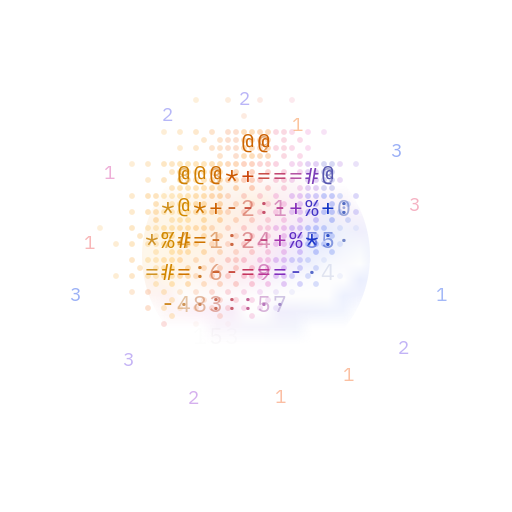
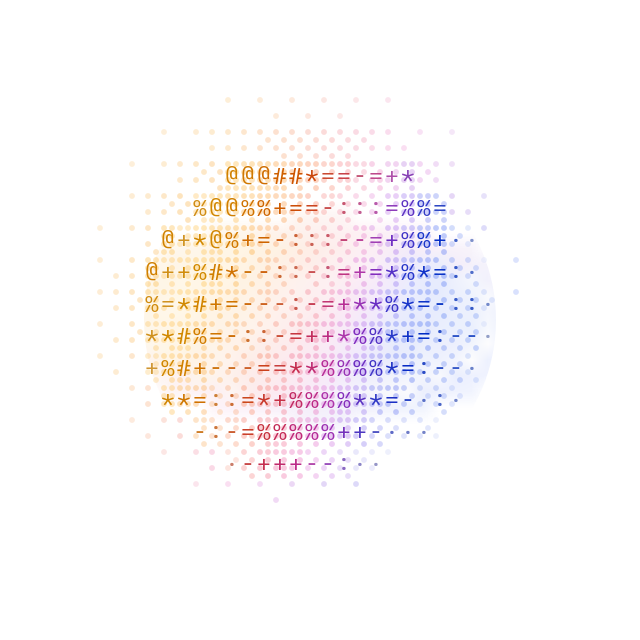
fix(ui): draw the Loading planet whole, breathing, with digits gathering
The launch poster and every loading frame showed a 14 x 7-cell crescent with
body digits and a frozen ring of loose 1/2/3 digits, so the pre-JS shell,
the boot and Account-restore Still frames, reduced motion and no-GPU all sat
on what read as a half-decoded planet.

The Loading scene now draws one whole planet (R 88 in a 320 box, lit from
the front so the full disc reads) that breathes on the brand's 9.6 s cycle
while digits drift in and fade into its limb on staggered cycles. Its first
frame is the Still frame: the regenerated posters, reduced motion and the
Still fallback show the whole planet with no loose digits. Home's cold-start
moment decodes the planet in from the grace through the shared front
(circle front, radial assembly), keeps its clock running while Home loads,
lifts the cover at readiness and travels only once the decode is complete,
turning light, glow and breath into Home's planet without a jump.

diff --git a/apps/ui/sources/components/atmosphere/moments/planetMomentTimeline.test.ts b/apps/ui/sources/components/atmosphere/moments/planetMomentTimeline.test.ts
@@ -1,8 +1,9 @@
 import { describe, expect, it } from 'vitest';
 import {
+  PLANET_BREATH_SECONDS,
   PLANET_MOMENT_TIMINGS,
 } from '@happier-dev/brand/planet';
-import { createLoadingPlanetScene, planetGlyphLayer } from '@happier-dev/brand/glyph-scene';
+import { createLoadingPlanetScene, glyphFrame, loadingPlanetDecodeS, planetGlyphLayer } from '@happier-dev/brand/glyph-scene';
 import { horizonPlanetGeometry } from '@happier-dev/brand/planet-placement';
 import {
   loadingPlanetLayers,
@@ -47,7 +48,7 @@ describe('Loading planet timeline', () => {
     ).toBe(false);
   });
 
-  it('keeps the loading planet Full and breathing for as long as loading is real', () => {
+  it('decodes the planet in, then keeps it Full, breathing and gathering on a clock that never stops while loading is real', () => {
     const frames = play(null, { reducedMotion: false, toPlanet: true }, 30);
     expect(
       frames
@@ -56,21 +57,47 @@ describe('Loading planet timeline', () => {
     ).toBe(true);
     const origin = loadingPlanetOrigin(pane);
     const scene = createLoadingPlanetScene();
-    const planetAt = (t: number) => loadingPlanetLayers(scene, loadingPlanetPhase(t, null, { reducedMotion: false, toPlanet: true }),
-      origin, null).find(layer => layer.kind === 'planet');
+    const layersAt = (t: number) => loadingPlanetLayers(scene, loadingPlanetPhase(t, null, { reducedMotion: false, toPlanet: true }),
+      origin, null);
+    const planetAt = (t: number) => layersAt(t).find(layer => layer.kind === 'planet');
     const first = planetAt(L4.GRACE);
-    const peak = planetAt(L4.GRACE + 1.8);
+    const peak = planetAt(L4.GRACE + PLANET_BREATH_SECONDS / 2);
     expect(first?.intensity).toBe('full');
-    expect(peak?.geometry.R).toBeGreaterThan(first!.geometry.R * 1.02);
+    expect(first?.assemble).toBeDefined();
+    expect(layersAt(L4.GRACE + loadingPlanetDecodeS / 2).some(layer => layer.kind === 'front')).toBe(true);
+    expect(planetAt(L4.GRACE + loadingPlanetDecodeS)?.assemble).toBeUndefined();
+    expect(peak?.geometry.R).toBeGreaterThan(first!.geometry.R * 1.03);
     const waiting = frames.filter(({ t }) => t >= L4.GRACE);
     expect(
       waiting.every(
-        ({ phase }) =>
+        ({ phase }, i) =>
           phase.kind === 'assembly' &&
           phase.orbitOpacity === 1 &&
-          phase.cover === 1,
+          phase.cover === 1 &&
+          (i === 0 || phase.seconds > (waiting[i - 1]!.phase as { seconds: number }).seconds),
       ),
     ).toBe(true);
+  });
+
+  it('lifts the cover at once when Home is ready mid-decode, and lets the planet finish decoding before it travels', () => {
+    const ready = L4.GRACE + 0.1;
+    const frames = play(ready, { reducedMotion: false, toPlanet: true });
+    expect(
+      frames
+        .filter(({ t }) => t >= ready + L4.FADE)
+        .every(({ phase }) => phase.kind === 'landed' || phase.cover === 0),
+    ).toBe(true);
+    const travel = frames.find(({ phase }) => phase.kind === 'travel')!;
+    expect(travel.t).toBeGreaterThanOrEqual(L4.GRACE + loadingPlanetDecodeS);
+    const scene = createLoadingPlanetScene();
+    const origin = loadingPlanetOrigin(pane);
+    const lastLoading = frames.filter(({ t, phase }) => phase.kind === 'assembly' && t < travel.t).at(-1)!;
+    // The last loading frame already draws the whole planet: the same body as that planet fully assembled.
+    expect(lastLoading.phase.kind).toBe('assembly');
+    const planetLayer = loadingPlanetLayers(scene, lastLoading.phase, origin, null).find(layer => layer.kind === 'planet')!;
+    const body = (layer: typeof planetLayer) => glyphFrame({ view: { w: pane.width, h: pane.height }, dpr: 1, theme: 'light',
+      layers: [layer] }, { time: lastLoading.t }).body?.rgba;
+    expect(body(planetLayer)).toEqual(body({ ...planetLayer, assemble: undefined }));
   });
 
   it.each([false, true])('resolves the visible planet when readiness lands at grace, reducedMotion=%s', (reducedMotion) => {
@@ -112,9 +139,11 @@ describe('Loading planet timeline', () => {
     const last = planetFor(travel.at(-1)!.phase);
     expect(Math.abs(last.geometry.cx - geometry.cx)).toBeLessThan(2);
     expect(Math.abs(last.geometry.R - geometry.R)).toBeLessThan(2);
+    // The travel departs from the loading planet's last frame, light and breath included.
     const first = planetFor({ ...travel[0]!.phase, k: 0 });
-    const previous = planetFor(loadingPlanetPhase(ready, ready, { reducedMotion: false, toPlanet: true }));
-    expect(first.geometry).toMatchObject(previous.geometry);
+    const previous = planetFor(loadingPlanetPhase(ready + L4.RESOLVE - 1e-6, ready, { reducedMotion: false, toPlanet: true }));
+    for (const key of ['cx', 'cy', 'R', 'glow'] as const) expect(first.geometry[key]).toBeCloseTo(previous.geometry[key]!, 4);
+    first.geometry.light!.forEach((value, axis) => expect(value).toBeCloseTo(previous.geometry.light![axis]!, 6));
     expect(first.intensity).toBe('full');
   });
 
@@ -128,7 +157,8 @@ describe('Loading planet timeline', () => {
     expect(fading.length).toBeGreaterThan(0);
     expect(
       fading.every(
-        ({ phase }) => phase.kind === 'assembly' && phase.seconds === ready - L4.GRACE,
+        ({ phase }) => phase.kind === 'assembly' && !loadingPlanetLayers(createLoadingPlanetScene(), phase, loadingPlanetOrigin(pane), null)
+          .some(layer => layer.kind === 'planet' && layer.assemble),
       ),
     ).toBe(true);
     expect(frames.find(({ phase }) => phase.kind === 'landed')!.t).toBeLessThan(
@@ -147,6 +177,7 @@ describe('Loading planet timeline', () => {
         ({ phase }) =>
           phase.kind === 'assembly' &&
           phase.seconds === 0 &&
+          !phase.decode &&
           phase.opacity === 1,
       ),
     ).toBe(true);

diff --git a/apps/ui/sources/components/atmosphere/moments/planetMomentTimeline.ts b/apps/ui/sources/components/atmosphere/moments/planetMomentTimeline.ts
@@ -1,9 +1,10 @@
 import {
   PLANET_MOMENT_TIMINGS,
+  PLANET_SAMPLER,
   planetMomentFrame,
 } from '@happier-dev/brand/planet';
 import { motionTokens } from '@/components/ui/motion/motionTokens';
-import { planetGlyphLayer, type createLoadingPlanetScene, type GlyphLayer, type PlanetGlyphLayer } from '@happier-dev/brand/glyph-scene';
+import { loadingPlanetDecodeS, planetGlyphLayer, type createLoadingPlanetScene, type GlyphLayer, type PlanetGlyphLayer } from '@happier-dev/brand/glyph-scene';
 import type { HomePane } from '../homePlanetPlacement';
 
 /**
@@ -43,17 +44,23 @@ export function loadingPlanetLayers(
 ): readonly GlyphLayer[] {
   if (phase.kind === 'none') return [];
   if (phase.kind === 'landed') return !phase.fast && target ? [target.layer] : [];
-  if (phase.kind === 'assembly') return loading(phase.seconds, origin, phase.orbitOpacity);
+  if (phase.kind === 'assembly') return loading(phase.seconds, origin, phase.orbitOpacity, phase.decode ? L4.GRACE : undefined);
   if (!target) return [];
-  const [departing] = loading(phase.seconds, origin, 0);
+  const [departing] = loading(phase.seconds, origin, 0, L4.GRACE);
   const from = departing.geometry;
-  const { cx, cy, R, rotate, halo } = target.layer.geometry;
+  const { cx, cy, R, rotate, halo, glow = 1 } = target.layer.geometry;
   const mix = (start: number, finish: number) => start + (finish - start) * phase.k;
+  const lightOf = (geometry: typeof from) => geometry.light ?? PLANET_SAMPLER.lightForReveal(geometry.reveal ?? 1);
+  const [fromLight, toLight] = [lightOf(from), lightOf(target.layer.geometry)];
+  const light = fromLight.map((value, axis) => mix(value, toLight[axis]!));
+  const length = Math.hypot(...light);
   return [planetGlyphLayer({
     ...target.layer,
     geometry: {
       ...target.layer.geometry,
       cx: mix(from.cx, cx), cy: mix(from.cy, cy), R: mix(from.R, R), rotate: mix(from.rotate, rotate),
+      glow: mix(from.glow ?? 1, glow),
+      light: [light[0]! / length, light[1]! / length, light[2]! / length],
       halo: { top: mix(from.halo.top, halo.top), right: mix(from.halo.right, halo.right),
         bottom: mix(from.halo.bottom, halo.bottom), left: mix(from.halo.left, halo.left) },
     },
@@ -64,10 +71,11 @@ export function loadingPlanetLayers(
 export type LoadingPlanetPhase =
   /** The grace: nothing is drawn yet. */
   | Readonly<{ kind: 'none' }>
-  /** The centred planet and its floating digits. Breathing stops at readiness. */
+  /** The centred planet on the moment's clock: decoding in from the grace (`decode`), then breathing while digits gather into it. */
   | Readonly<{
       kind: 'assembly';
       seconds: number;
+      decode: boolean;
       orbitOpacity: number;
       opacity: number;
       cover: number;
@@ -79,50 +87,44 @@ export type LoadingPlanetPhase =
 
 /**
  * Loading at `t` seconds of the moment's clock, with Home ready at `ready` (null while it is not).
- * The centred planet holds for as long as loading is real.
+ * The centred planet keeps breathing for as long as loading is real. Home's readiness lifts the cover at once;
+ * the planet first finishes decoding in, so it never leaves half-built.
  */
 export function loadingPlanetPhase(
   t: number,
   ready: number | null,
   options: Readonly<{ reducedMotion: boolean; toPlanet: boolean }>,
 ): LoadingPlanetPhase {
-  const frame = planetMomentFrame('loading', t, ready);
-  if (frame.fast) return { kind: 'landed', fast: true };
+  const { cover = 1, fast } = planetMomentFrame('loading', t, ready);
+  if (fast) return { kind: 'landed', fast: true };
   if (t < L4.GRACE) return { kind: 'none' };
-  const after = ready === null ? -1 : t - ready;
-  const seconds = options.reducedMotion ? 0 : Math.max(0, Math.min(t, ready ?? t) - L4.GRACE);
   if (options.reducedMotion) {
+    const after = ready === null ? -1 : t - ready;
     if (after >= CROSSFADE_S) return { kind: 'landed', fast: false };
     const opacity = after < 0 ? 1 : 1 - after / CROSSFADE_S;
-    return {
-      kind: 'assembly',
-      seconds,
-      orbitOpacity: 1,
-      opacity,
-      cover: opacity,
-    };
+    return { kind: 'assembly', seconds: 0, decode: false, orbitOpacity: 1, opacity, cover: opacity };
   }
+  const seconds = t;
+  const settled = ready === null ? null : Math.max(ready, L4.GRACE + loadingPlanetDecodeS - L4.RESOLVE);
+  const frame = planetMomentFrame('loading', t, settled);
+  const after = settled === null ? -1 : t - settled;
   if (frame.assembly)
     return {
       kind: 'assembly',
       seconds,
+      decode: true,
       orbitOpacity: options.toPlanet && after > 0 ? 1 - Math.min(1, after / L4.RESOLVE) : 1,
       opacity: 1,
-      cover: frame.cover ?? 1,
+      cover,
     };
-  if (ready === null) return { kind: 'none' };
+  if (settled === null) return { kind: 'none' };
   if (!options.toPlanet) {
-    // Home shows no planet: the assembled planet stays centred and cross-fades away.
+    // Home shows no planet: the whole planet stays centred and cross-fades away.
     const fade = after - L4.RESOLVE;
     if (fade >= CROSSFADE_S) return { kind: 'landed', fast: false };
-    return {
-      kind: 'assembly',
-      seconds,
-      orbitOpacity: 1,
-      opacity: 1 - fade / CROSSFADE_S,
-      cover: 0,
-    };
+    return { kind: 'assembly', seconds, decode: true, orbitOpacity: 1, opacity: 1 - fade / CROSSFADE_S, cover: 0 };
   }
   if (frame.rest) return { kind: 'landed', fast: false };
-  return { kind: 'travel', k: frame.travel ?? 0, cover: frame.cover ?? 0, seconds, startS: ready + L4.RESOLVE };
+  const startS = settled + L4.RESOLVE;
+  return { kind: 'travel', k: frame.travel ?? 0, cover, seconds: startS, startS };
 }

diff --git a/apps/ui/sources/components/atmosphere/moments/homeLoadingMoment.test.tsx b/apps/ui/sources/components/atmosphere/moments/homeLoadingMoment.test.tsx
@@ -4,9 +4,9 @@ import { View } from 'react-native';
 import { afterEach, beforeEach, describe, expect, it, vi } from 'vitest';
 import { renderScreen } from '@/dev/testkit';
 import { horizonPlanetGeometry } from '@happier-dev/brand/planet-placement';
-import { glyphFrame, planetGlyphLayer } from '@happier-dev/brand/glyph-scene';
+import { createLoadingPlanetScene, glyphFrame, planetGlyphLayer } from '@happier-dev/brand/glyph-scene';
 import { useHomeLoadingMoment, type HomePlanetHold } from './homeLoadingMoment';
-import type { PlanetMomentTarget } from './planetMomentTimeline';
+import { loadingPlanetOrigin, type PlanetMomentTarget } from './planetMomentTimeline';
 
 vi.mock('react-native', async () => {
   const { createReactNativeWebMock } =
@@ -158,6 +158,20 @@ describe('Home loading moment', () => {
     });
   });
 
+  it('keeps moving for as long as Home loads and stops its clock once Home has taken over', async () => {
+    const seen: Seen[] = [];
+    const screen = await renderScreen(<Home waiting target={null} drawn={false} seen={seen} />);
+    // Well past the decode and a whole breath later, the clock is still running.
+    await frames(5400);
+    expect(screen.findByTestId('loading-planet.assembly')).not.toBeNull();
+    expect(vi.getTimerCount()).toBe(1);
+    await screen.update(<Home waiting={false} target={planet} drawn={false} seen={seen} />);
+    await frames(1200);
+    await screen.update(<Home waiting={false} target={planet} drawn seen={seen} />);
+    expect(screen.findByTestId('loading-planet')).toBeNull();
+    expect(vi.getTimerCount()).toBe(0);
+  });
+
   it("under reduced motion releases Home's planet on ready and cross-fades the resting one away", async () => {
     const seen: Seen[] = [];
     const screen = await renderScreen(
@@ -165,6 +179,10 @@ describe('Home loading moment', () => {
     );
     await frames(1000);
     expect(screen.findByTestId('loading-planet.assembly')).not.toBeNull();
+    // One whole planet at rest: the Still frame, never a planet caught mid-decode.
+    const whole = glyphFrame({ view: { w: pane.width, h: pane.height }, dpr: 1, theme: 'dark',
+      layers: createLoadingPlanetScene()(0, loadingPlanetOrigin(pane)) });
+    expect(pixels.body).toEqual(whole.body?.rgba);
     // The reduced-motion resting planet has no changing fact to display while Home connects.
     expect(vi.getTimerCount()).toBe(0);
     await act(async () => { vi.advanceTimersByTime(60_000); });

diff --git a/apps/ui/sources/dev/atmosphere/GlyphSpecimen.tsx b/apps/ui/sources/dev/atmosphere/GlyphSpecimen.tsx
@@ -51,6 +51,11 @@ export default function GlyphSpecimen() {
         }
         return scene;
     }, [at, dark, loadingFrame, moment, palette, themeFrame]);
+    // Moments sample their layers on the surface clock: draw once at the requested time.
+    const motion = React.useMemo(() => {
+        const seconds = Number(at ?? '0.5') || 0;
+        return moment === 'loading' ? { kind: 'sequence' as const, readTimeS: () => seconds, continues: () => false } : null;
+    }, [at, moment]);
     const cycles = requested === '20' ? 20 : 1;
     const [draws, setDraws] = React.useState(0);
     const [status, setStatus] = React.useState('warming');
@@ -65,7 +70,7 @@ export default function GlyphSpecimen() {
     >
         {moment === 'pairing' ? <PairingQrMomentCanvas size={224} theme={palette} pairing reducedMotion machines={['Desktop']}
             scene={{ kind: 'pairing', device: 'Laptop', scan: null, joinedAtMs: 0 }} />
-            : <GlyphSurface key={key} width={pane.width} height={pane.height} theme={palette} scene={layers}
+            : <GlyphSurface key={key} width={pane.width} height={pane.height} theme={palette} scene={layers} motion={motion}
                 cell={moment === 'theme' ? themeHorizonGlyphCell : undefined} onReady={onReady} testID="glyph-specimen-surface" />}
     </View>;
 }

diff --git a/apps/ui/public/index.html b/apps/ui/public/index.html
@@ -33,7 +33,7 @@
     <style>
       html.launch-shell body { margin: 0; }
       html.launch-shell #root:empty {
-        background: #f5f5f5 url("/launch-planet-light.png") center / 256px no-repeat;
+        background: #f5f5f5 url("/launch-planet-light.png") center / 320px no-repeat;
       }
       @media (prefers-color-scheme: dark) {
         html.launch-shell #root:empty {

diff --git a/apps/ui/app.config.js b/apps/ui/app.config.js
@@ -590,7 +590,7 @@ const baseExpoConfig = {
             [
                 'expo-splash-screen',
                 {
-                    imageWidth: 256,
+                    imageWidth: 320,
                     ios: {
                         image: "./public/launch-planet-light.png",
                         backgroundColor: "#F2F2F7",
